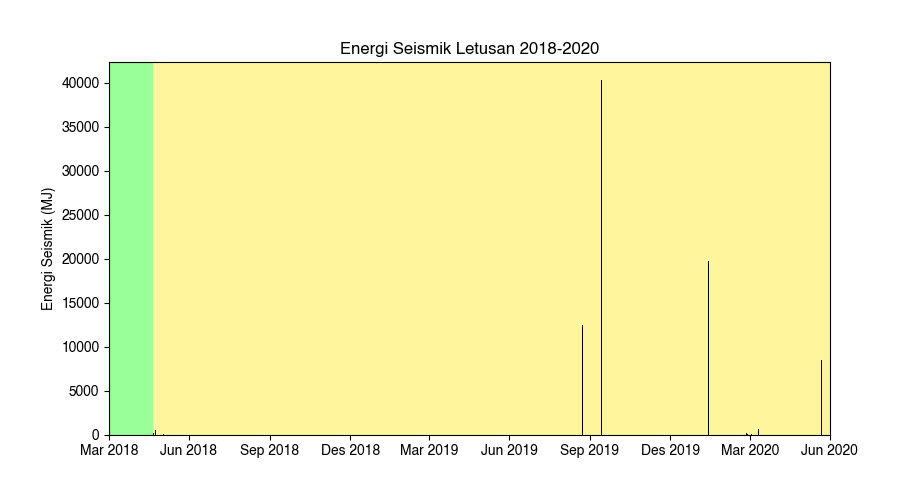
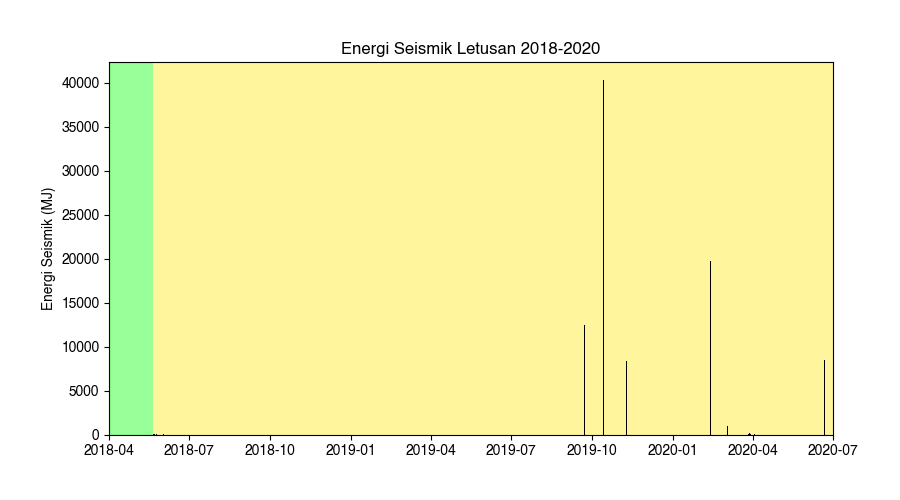
Remove formatter config

diff --git a/examples/explosion_energy/explosion_energy.py b/examples/explosion_energy/explosion_energy.py
@@ -9,6 +9,8 @@ locale.setlocale(locale.LC_ALL, 'id_ID')
 
 set_api_key(os.environ['API_KEY'])
 
+startime = '2018-04-01'
+endtime = '2020-07-01'
 
 @register_transform('compute_seismic_energy')
 def compute_seismic_energy(data, config):
@@ -42,8 +44,8 @@ chart = Chart({
                         'name': 'magnitude',
                         'type': 'bar',
                         'query_params': {
-                            'eventdate__gte': '2018-04-01',
-                            'eventdate__lt': '2020-07-01',
+                            'eventdate__gte': startime,
+                            'eventdate__lt': endtime,
                             'eventtype': 'EXPLOSION',
                             'nolimit': True,
                         },
@@ -61,22 +63,14 @@ chart = Chart({
                                 'text': 'Energi Seismik (MJ)'
                             }
                         },
-                        'formatter': {
-                            'x': {
-                                'major': {
-                                    'name': 'DateFormatter',
-                                    'params': ['%b %Y']
-                                }
-                            }
-                        },
                     }
                 ]
             }
         ]
     },
     'extensions': {
-        'starttime': '2018-04-01',
-        'endtime': '2020-07-01',
+        'starttime': startime,
+        'endtime': endtime,
         'plot': [
             {
                 'name': 'komapy.extensions.activity_status'

diff --git a/examples/explosion_magnitude/explosion_magnitude.py b/examples/explosion_magnitude/explosion_magnitude.py
@@ -8,6 +8,10 @@ locale.setlocale(locale.LC_ALL, 'id_ID')
 
 set_api_key(os.environ['API_KEY'])
 
+starttime = '2018-04-01'
+endtime = '2020-07-01'
+
+
 chart = Chart({
     'title': 'Magnitudo Letusan 2018-2020',
     'tight_layout': {
@@ -31,8 +35,8 @@ chart = Chart({
                         'name': 'magnitude',
                         'type': 'bar',
                         'query_params': {
-                            'eventdate__gte': '2018-04-01',
-                            'eventdate__lt': '2020-07-01',
+                            'eventdate__gte': starttime,
+                            'eventdate__lt': endtime,
                             'eventtype': 'EXPLOSION',
                             'nolimit': True,
                         },
@@ -47,22 +51,14 @@ chart = Chart({
                                 'text': 'Magnitudo'
                             }
                         },
-                        'formatter': {
-                            'x': {
-                                'major': {
-                                    'name': 'DateFormatter',
-                                    'params': ['%b %Y']
-                                }
-                            }
-                        },
                     }
                 ]
             }
         ]
     },
     'extensions': {
-        'starttime': '2018-04-01',
-        'endtime': '2020-07-01',
+        'starttime': starttime,
+        'endtime': endtime,
         'plot': [
             {
                 'name': 'komapy.extensions.activity_status'
